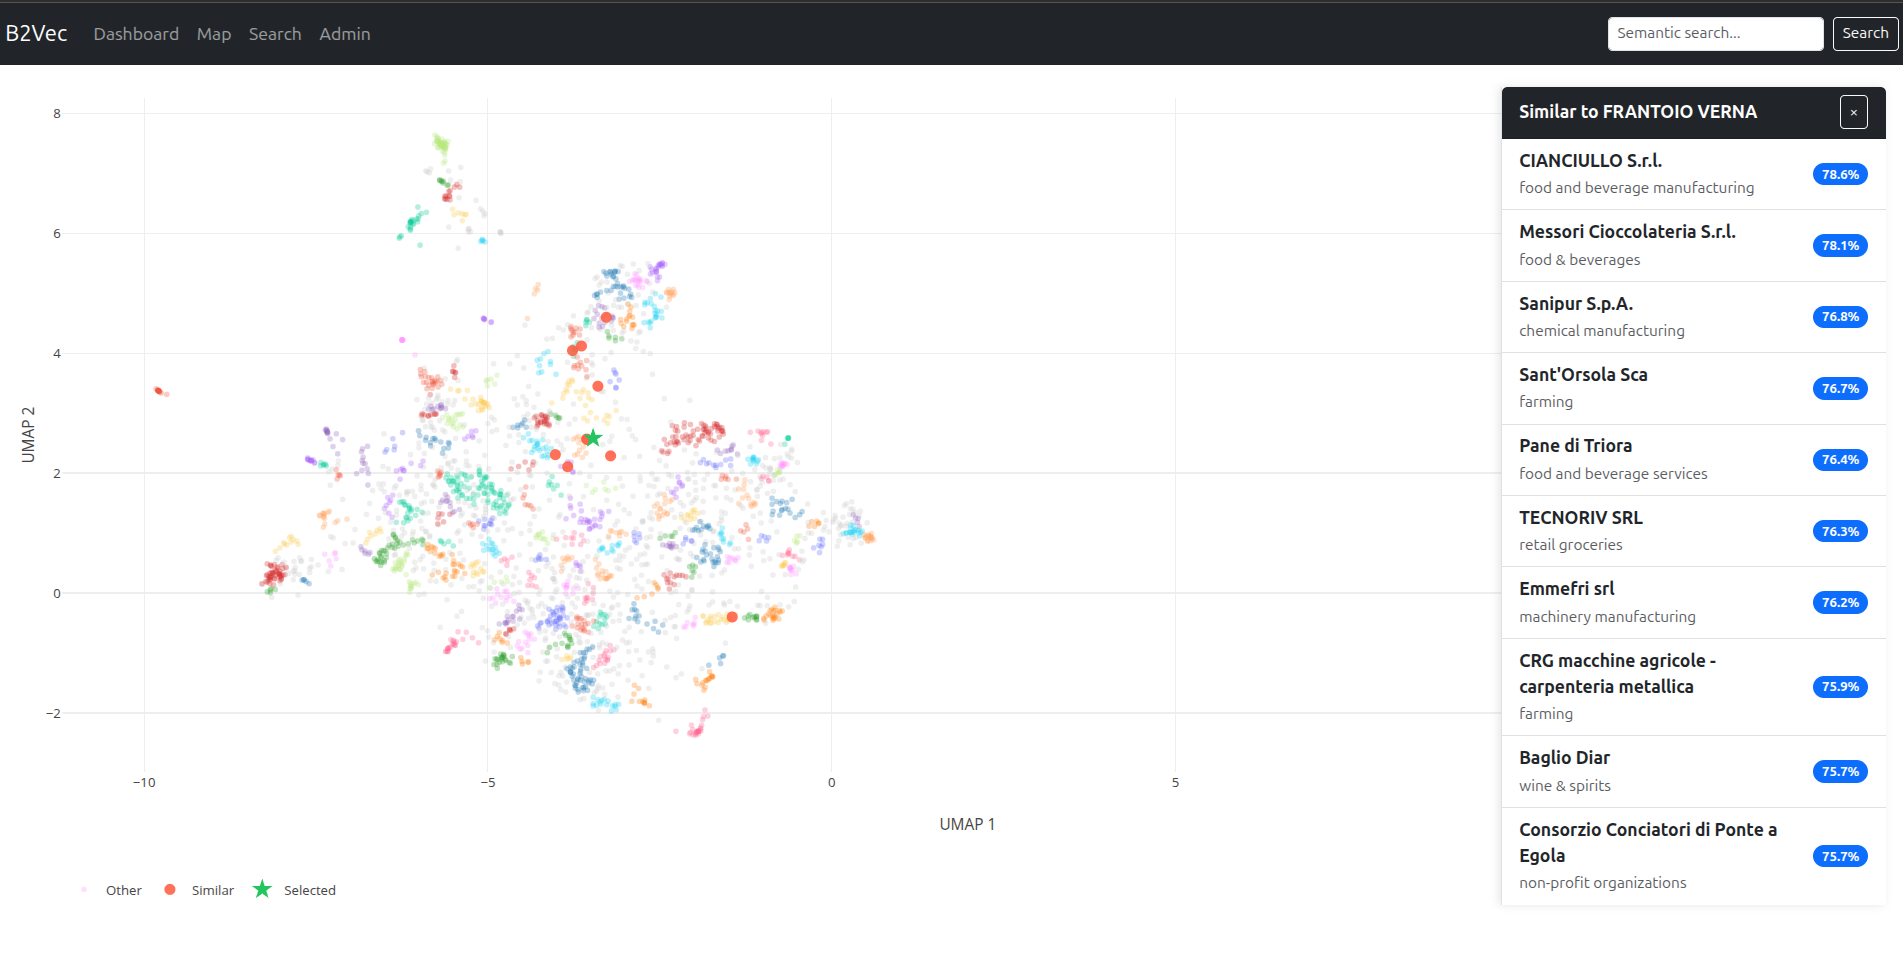
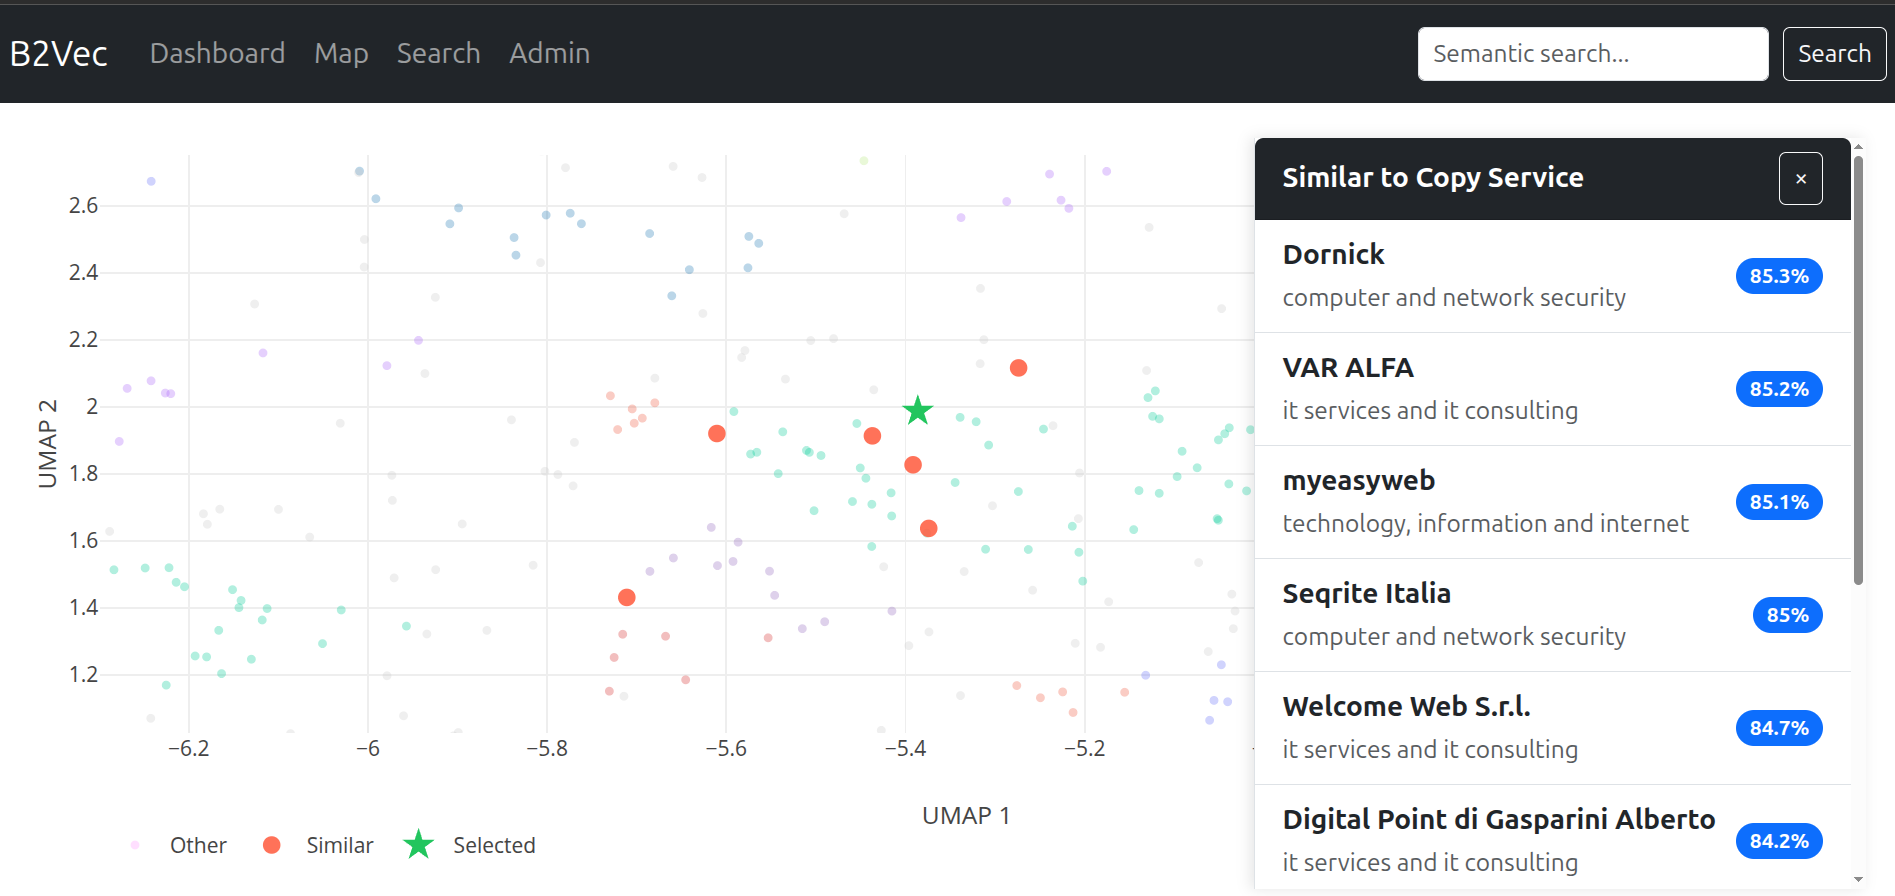
new db

diff --git a/import_csv.py b/import_csv.py
@@ -1,0 +1,119 @@
+#!/usr/bin/env python
+"""
+Bulk-import companies from the BigPicture CSV into PostgreSQL.
+
+Usage:
+    python import_csv.py [--csv companies-2023-q4-sm.csv] [--country IT] [--batch 50000]
+
+Uses COPY-style bulk insert for speed (~17M rows).
+Skips rows without a website and deduplicates on handle.
+"""
+
+import os
+import sys
+import csv
+import argparse
+import time
+
+os.environ.setdefault('DJANGO_SETTINGS_MODULE', 'config.settings')
+
+import django
+django.setup()
+
+from django.db import connection
+from core.models import Company
+
+
+def import_csv(csv_path: str, country_code: str | None, batch_size: int):
+    print(f"Reading {csv_path} ...")
+    if country_code:
+        print(f"Filtering by country_code = {country_code}")
+
+    # Get existing handles to skip duplicates
+    print("Loading existing handles from DB ...")
+    existing_handles = set(
+        Company.objects.values_list('handle', flat=True)
+    )
+    print(f"  {len(existing_handles)} companies already in DB")
+
+    batch = []
+    total_inserted = 0
+    total_skipped = 0
+    t0 = time.time()
+
+    with open(csv_path, 'r', encoding='utf-8', errors='replace') as f:
+        reader = csv.DictReader(f)
+
+        for row in reader:
+            # Filter by country
+            if country_code and row.get('country_code', '').strip() != country_code:
+                continue
+
+            # Must have website
+            website = (row.get('website') or '').strip()
+            if not website:
+                total_skipped += 1
+                continue
+
+            handle = (row.get('handle') or '').strip() or None
+
+            # Skip duplicates
+            if handle and handle in existing_handles:
+                total_skipped += 1
+                continue
+
+            name = (row.get('name') or '').strip()
+            if not name:
+                total_skipped += 1
+                continue
+
+            batch.append(Company(
+                handle=handle,
+                name=name[:255],
+                website=website[:255],
+                url=f"https://www.{website}",
+                industry=(row.get('industry') or '').strip()[:255] or None,
+                size=(row.get('size') or '').strip()[:50] or None,
+                type=(row.get('type') or '').strip()[:100] or None,
+                founded=(row.get('founded') or '').strip()[:10] or None,
+                city=(row.get('city') or '').strip()[:255] or None,
+                state=(row.get('state') or '').strip()[:255] or None,
+                country_code=(row.get('country_code') or '').strip()[:10] or None,
+                scrape_status='pending',
+            ))
+
+            if handle:
+                existing_handles.add(handle)
+
+            if len(batch) >= batch_size:
+                Company.objects.bulk_create(batch, ignore_conflicts=True)
+                total_inserted += len(batch)
+                elapsed = time.time() - t0
+                rate = total_inserted / elapsed if elapsed > 0 else 0
+                print(f"  Inserted {total_inserted:,} ({rate:,.0f}/s) | Skipped {total_skipped:,}")
+                batch = []
+
+    # Final batch
+    if batch:
+        Company.objects.bulk_create(batch, ignore_conflicts=True)
+        total_inserted += len(batch)
+
+    elapsed = time.time() - t0
+    print(f"\nDone in {elapsed:.1f}s")
+    print(f"  Inserted: {total_inserted:,}")
+    print(f"  Skipped:  {total_skipped:,}")
+    print(f"  Total in DB: {Company.objects.count():,}")
+
+
+if __name__ == '__main__':
+    parser = argparse.ArgumentParser(description="Import companies from CSV")
+    parser.add_argument('--csv', default='companies-2023-q4-sm.csv', help='Path to CSV file')
+    parser.add_argument('--country', default=None, help='Filter by country code (e.g. IT). Default: all countries')
+    parser.add_argument('--batch', type=int, default=50000, help='Bulk insert batch size')
+    args = parser.parse_args()
+
+    if not os.path.exists(args.csv):
+        print(f"ERROR: CSV file not found: {args.csv}")
+        sys.exit(1)
+
+    import_csv(args.csv, args.country, args.batch)
